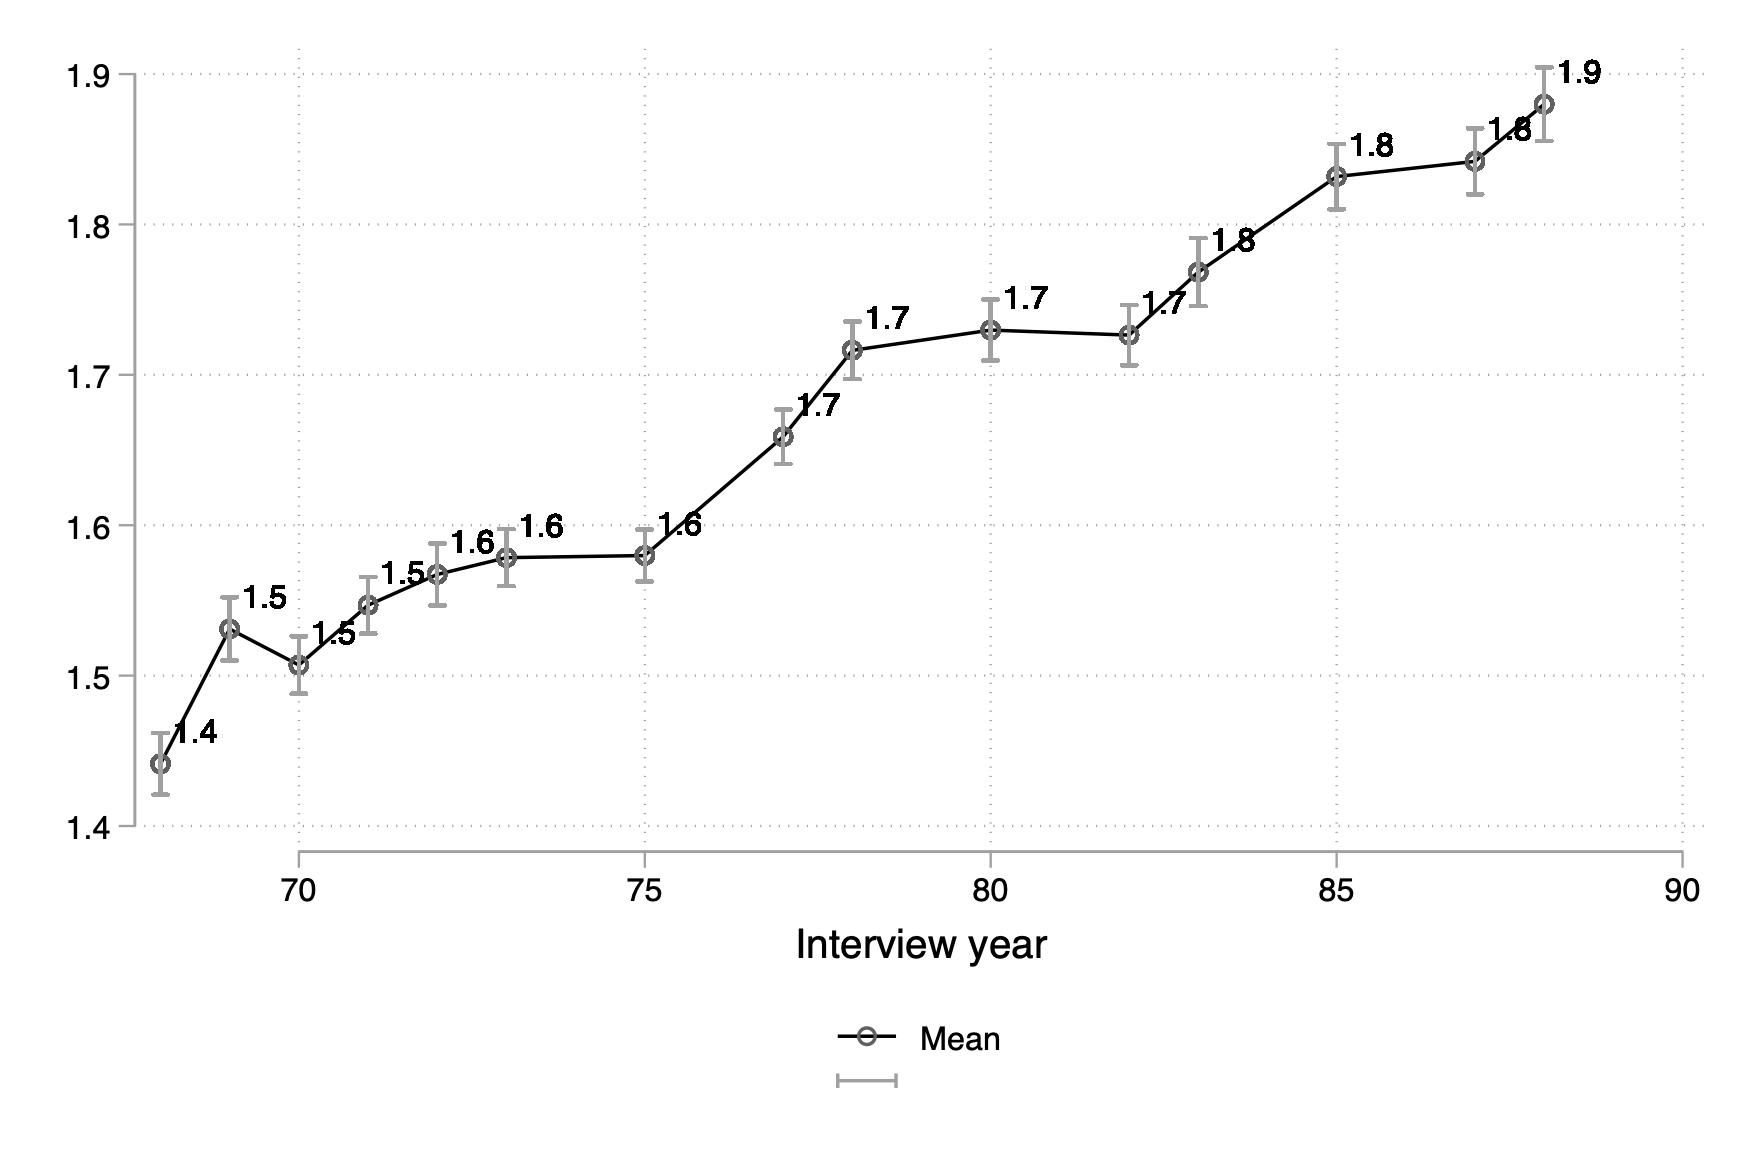
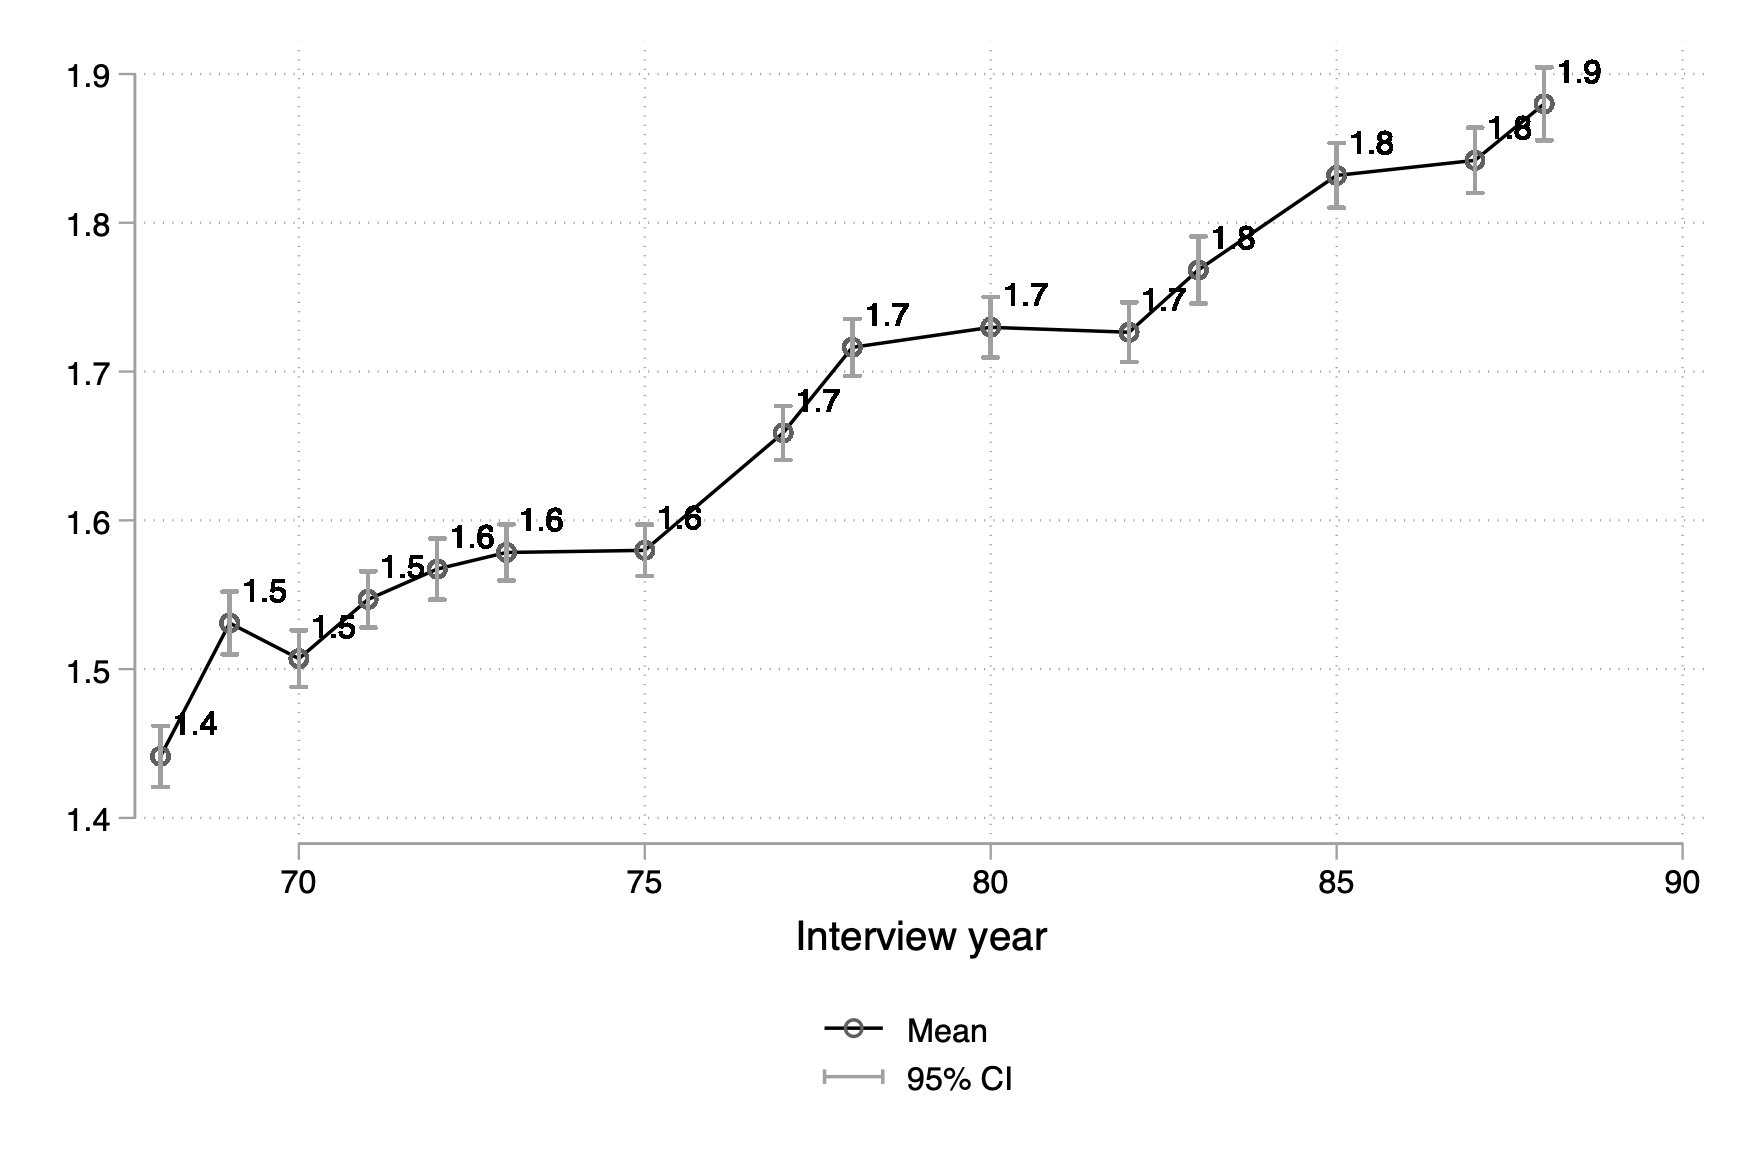
ci

diff --git a/Notes/notes.md b/Notes/notes.md
@@ -316,7 +316,7 @@ forval i = 68/88 {
 	
 }
 
-twoway (connected meanln_wage year, mlabel(meanln_wage) mlabposition(1) mlabgap(relative1p5)) (rcap ln_wagelb ln_wageub year, sort), legend(order(1 "Mean" 2 "") position(6))
+twoway (connected meanln_wage year, mlabel(meanln_wage) mlabposition(1) mlabgap(relative1p5)) (rcap ln_wagelb ln_wageub year, sort), legend(order(1 "Mean" 2 "95% CI") position(6))
 graph export ci.png,replace
 
 ```
